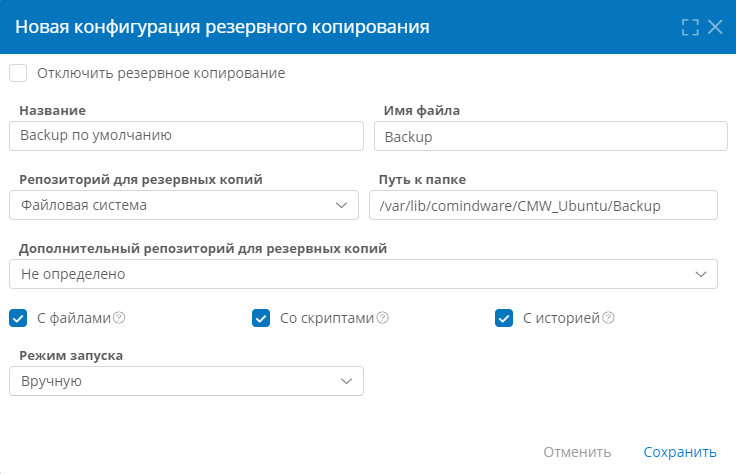
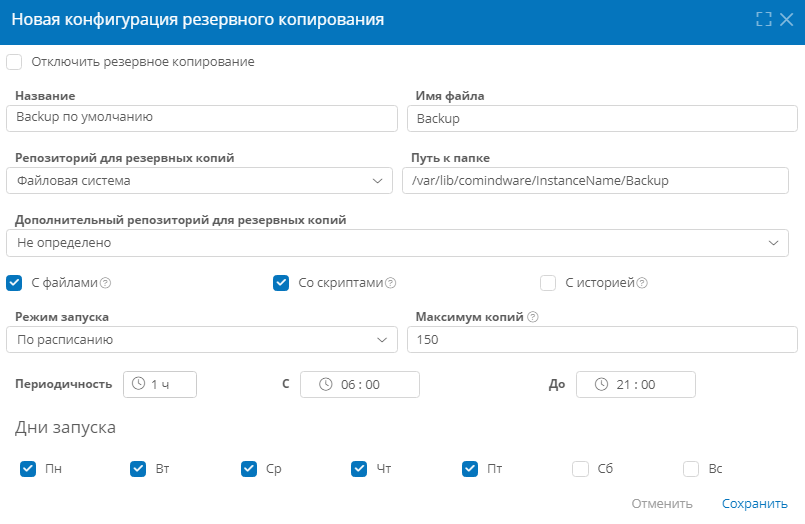
[#1703741] Reviewd backup.md and links

diff --git a/docs/ru/administration/infrastructure/backup.md b/docs/ru/administration/infrastructure/backup.md
@@ -1,20 +1,21 @@
 ---
+title: Резервное копирование
 kbId: 2190 
 ---
 
-# Резервное копирование
+# Резервное копирование. Настройка и запуск, просмотр журнала сеансов {: #backup}
 
 ## Введение
 
-В **{{ productName }}** предусмотрена функция резервного копирования полного образа экземпляра ПО в формате файла с расширением `.CBBZ`.
+В **{{ productName }}** предусмотрена функция резервного копирования полного образа экземпляра ПО в формате файла с расширением `.CDBBZ`.
 
 При резервном копировании сохраняются все данные всех приложений и все системные настройки экземпляра ПО **{{ productName }}**.
 
-Резервные копии могут храниться как в файловой системе сервера **{{ productName }}**, так и в [хранилище S3](s3_connection.md).
+Резервные копии могут храниться как в файловой системе сервера **{{ productName }}**, так и в [хранилище S3][s3_connection].
 
 Резервное копирование можно настраивать и запускать с помощью веб-интерфейса **{{ productName }}**.
 
-Восстановление данных осуществляется на стороне сервера **{{ productName }}**. См. _«[Восстановление базы данных из файла резервной копии в формате .CDBBZ]({{ kbArticleURLPrefix }}2500)»_.
+Восстановление данных осуществляется на стороне сервера **{{ productName }}**. См. _«[Восстановление базы данных из файла резервной копии в формате .CDBBZ][backup_restore_cdbbz]»_.
 
 ## Рекомендации по резервному копированию
 
@@ -25,128 +26,112 @@ kbId: 2190
 - Раз в сутки — полное резервное копирование базы данных, скриптов, файлов и истории операций встроенными средствами ПО, срок хранения резервных копий: не менее двух недель.
 - Раз в неделю — резервное копирование всего образа развёрнутого ПО средствами виртуализации, срок хранения резервных копий: не менее трех месяцев.
 
-Инструкции по резервному копированию и восстановлению данных встроенными и внешними средствами см. в разделе _«[Резервное копирование и восстановление]({{ kbArticleURLPrefix }}2579)»_.
+Инструкции по резервному копированию и восстановлению данных встроенными и внешними средствами см. в разделе _«[Резервное копирование и восстановление][backup_and_restore]»_.
 
 ## Просмотр списка и настройка конфигураций резервного копирования
 
-1. В разделе [«**Администрирование**» — «**Инфраструктура**»][администрирование] выберите пункт «**Резервное копирование**» <i class=" fal  fa-coins "></i>. 
+1. В разделе [«**Администрирование**» — «**Инфраструктура**»][администрирование] выберите пункт «**Резервное копирование**» <i class="fa-light  fa-coins"></i>.
 2. Отобразится список конфигураций резервного копирования со следующими сведениями:  
-    - **Флажки выбора** — устанавливайте флажки в этом столбце, чтобы выбрать одну или несколько конфигураций резервного копирования.
-    - **ID** — уникальный идентификатор конфигурации резервного копирования.
-    - **Название** — наименование конфигурации резервного копирования.
-    - **Путь к файлу** — папка на сервере, в которой будут сохраняться резервные копии.
-    - **Имя файла** — имя файла резервных копий. В процессе резервного копирования к этому имени будут добавляться метка времени в формате `ГГГГММДДЧЧММ` и расширение `CDBBZ`, например для имени файла Backup: `Backup.202202161625.cdbbz`.
-    - **С файлами** — если в резервную копию включаются загруженные файлы, в этом столбце отображается флажок ![синий флажок](blue_checkmark.png) .
-    - **Со скриптами** — если в резервную копию включаются скрипты, в этом столбце отображается флажок ![синий флажок](blue_checkmark.png) .
-    - **Отключено** — если резервное копирование отключено, в этом столбце отображается флажок ![синий флажок](blue_checkmark.png) .
 3. Нажмите кнопку «**Создать**» или дважды нажмите строку конфигурации в списке.
-4. Отобразится окно свойств конфигурации резервного копирования.
-5. Настройте и сохраните [конфигурацию резервного копирования](#свойства-конфигурации-резервного-копирования).
+4. Настройте и сохраните конфигурацию резервного копирования:
 
-### Свойства конфигурации резервного копирования
+    - **Отключить резервное копирование** — установите этот флажок, чтобы прекратить резервное копирование с использованием данной конфигурации.
+    - **Название** — введите наглядное наименование конфигурации резервного копирования.
+    - **Имя файла** — введите имя файла резервных копий. В процессе резервного копирования к этому имени будут добавляться метка времени в формате `ГГГГММДДЧЧММ` и расширение `CDBBZ`, например для имени файла Backup: `Backup.202202161625.cdbbz`.
+    - **Репозиторий для резервных копий** — выберите хранилище для резервных копий:
+        - **Не определено** — не использовать репозиторий для хранения резервных копий.
+        - **Файловая система** — сохранять резервные копии в файловой системе сервера **{{ productName }}**.
+            - **Путь к папке** — путь к директории на сервере, в которой будут сохраняться резервные копии, например `/var/lib/comindware/<instanceName>/Backups` (здесь `<instanceName>` — имя экземпляра ПО). Для этой директории предоставьте разрешения на полный доступ, чтобы система могла сохранять в неё резервные копии, например:  
+                **Astra Linux, Ubuntu, Rocky**  
 
-- **Отключить резервное копирование** — установите этот флажок, чтобы прекратить резервное копирование с использованием данной конфигурации.
-- **Название** — введите наглядное наименование конфигурации резервного копирования.
-- **Имя файла** — введите имя файла резервных копий. В процессе резервного копирования к этому имени будут добавляться метка времени в формате `ГГГГММДДЧЧММ` и расширение `CDBBZ`, например для имени файла Backup: `Backup.202202161625.cdbbz`.
-- **Репозиторий для резервных копий** — выберите хранилище для резервных копий:
-    - **Не определено** — не использовать репозиторий для хранения резервных копий.
-    - **Файловая система** — сохранять резервные копии в файловой системе сервера **{{ productName }}**.
-        - **Путь к папке** — путь к директории на сервере, в которой будут сохраняться резервные копии, например `/var/lib/comindware/<instanceName>/Backups` (здесь `<instanceName>` — имя экземпляра ПО). Для этой директории предоставьте разрешения на полный доступ, чтобы система могла сохранять в неё резервные копии, например:  
-            **Astra Linux, Ubuntu, Rocky**  
-            
-            ``` shell
-            chmod 777 /var/lib/comindware/<instanceName>chown -R www-data:www-data /var/lib/comindware/<instanceName>
-            chown -R www-data:www-data /var/lib/comindware/<instanceName>
-            ```
-            
-            **Альт Сервер**  
-            
-            ``` shell
-            chmod 777 /var/lib/comindware/<instanceName>chown -R _nginx:_nginx /var/lib/comindware/<instanceName>
-            chown -R _nginx:_nginx /var/lib/comindware/<instanceName>
-            ```
-            
-    - **Хранилище S3** — сохранять резервные копии во [внешнем сервисе S3](s3_connection.md).
-        - **Имя корзины** — введите имя контейнера в хранилище S3, к котором будут сохраняться резервные копии.
-            
-            !!! warning "Внимание!"
+                ``` shell
+                chmod 777 /var/lib/comindware/<instanceName>chown -R www-data:www-data /var/lib/comindware/<instanceName>
+                chown -R www-data:www-data /var/lib/comindware/<instanceName>
+                ```
 
-                Для резервного копирования в основной и дополнительный репозитории будет использоваться только подключение к S3, заданное в файле конфигурации экземпляра ПО (`/usr/share/comindware/configs/instance/<instanceName>.yml`) с помощью директивы `s3Connection.default`
-            
-- **Дополнительный репозиторий для резервных копий** — выберите хранилище, в которое будут сохраняться дубликаты резервных копий.
-- **С файлами** — установите этот флажок, чтобы включить в состав резервной копии загруженные файлы.
-- **Со скриптами** — установите этот флажок, чтобы включить в состав резервной копии скрипты.
-- **С историей** — установите этот флажок, чтобы включить в состав резервной копии данные Elasticsearch.
-    
-    !!! warning "Внимание!"
-    
-        Для корректного резервного копирования данных истории необходимо настроить конфигурацию службы Elasticsearch и экземпляра ПО **{{ productName }}**:
-        
-        - В файле конфигурации Elasticsearch (`/etc/elasticsearch/elasticsearch.yml`) должен быть указан путь к репозиторию резервных копий, например:  
-            **Для репозитория на локальном диске**
-            
-            ``` shell
-            # Директория репозитория должна быть доступна экземпляру ПО
-            # {{ productName }}
-            # При необходимости установите доступ с помощью команды chmod 777
-            path.repo: /var/www/backups/elasticsearch
-            ```
-            
-            **Для репозитория в хранилище S3**  
-            
-            ``` shell
-            s3.client.default.endpoint: localhost:9000
-            s3.client.default.protocol: http
-            s3.client.default.path_style_access: true
-            ```
-            
-        - В файле конфигурации экземпляра ПО (`/usr/share/comindware/configs/instance/<instanceName>.yml`) необходимо указать тип репозитория резервных копий Elasticsearch (`LocalDisk` или `S3`) и путь к репозиторию, например:  
-            **Для репозитория на локальном диске**  
-            
-            ``` shell
-            backup.elasticRepository.type: LocalDisk
-            # В данном примере Elasticsearch и {{ productName }} Platform 
-            # работают на одной машине. 
-            # В противном случае следует примонтировать папку репозитория Elasticsearch 
-            # на машине с {{ productName }} и указать её в директиве ниже
-            backup.elasticRepository.localDisk.path: /var/www/backups/elasticsearch
-            ```
-            
-            **Для репозитория в хранилище S3**  
-            
-            ``` shell
-            # Конфигурация подключения к хранилищу S3, используемого по умолчанию 
-            s3Connection.default.endpointURL: http://localhost:9000 
-            s3Connection.default.accessKey: xxxxx 
-            s3Connection.default.secretKey: xxxxx 
-            s3Connection.default.pathStyleAccess: true 
-            s3Connection.default.description: Подключение к S3 по умолчанию 
+                **Альт Сервер**  
 
-            # Конфигурация репозитория резервных копий Elasticsearch в хранилище S3 
-            backup.elasticRepository.type: S3 
-            # Имя корзины в хранилище S3 для хранения резервных копий данных Elasticsearch
-            backup.elasticRepository.s3.bucket: <instanceName>-backups
-            # Имя подключения к хранилищу S3, используемому по умолчанию на стороне {{ productName }}  
-            backup.elasticRepository.s3.platformConnection: default
-            # Имя подключения к хранилищу S3, используемому по умолчанию на стороне Elasticsearch  
-            backup.elasticRepository.s3.elasticConnection: default 
-            ```
+                ``` shell
+                chmod 777 /var/lib/comindware/<instanceName>chown -R _nginx:_nginx /var/lib/comindware/<instanceName>
+                chown -R _nginx:_nginx /var/lib/comindware/<instanceName>
+                ```
 
-- **Режим запуска**
-    - **Вручную** — для запуска резервного копирования потребуется нажимать кнопку «**Запустить копирование**» в [списке конфигураций резервного копирования](#запуск-резервного-копирования).
-    - **По расписанию** — резервное копирование будет выполняться по настроенному расписанию. Если выбрать этот режим, отобразятся свойства [расписания резервного копирования](#расписание-резервного-копирования).
+        - **Хранилище S3** — сохранять резервные копии во [внешнем сервисе S3][s3_connection].
+            - **Имя корзины** — введите имя контейнера в хранилище S3, к котором будут сохраняться резервные копии.
 
-*![Настройка свойств резервного копирования](backup_create_config.png)*
-#### Расписание резервного копирования
+                !!! warning "Внимание!"
 
-- **Максимум копий** — максимальное количество резервных копий, которые будут храниться в папке на сервере. Укажите значение 0, чтобы хранить все резервные копии.
-- **Периодичность** — частота, с которой будет выполняться копирование.
-- **Интервал**
-    - **С** — время суток, начиная с которого может выполняться копирование в указанные дни недели.
-    - **До** — время суток, вплоть до которого может выполняться копирование в указанные дни недели.
-- **Дни запуска** — дни недели, по которым будет выполняться копирование с указанной периодичностью.
+                    Для резервного копирования в основной и дополнительный репозитории будет использоваться только подключение к S3, заданное в файле конфигурации экземпляра ПО (`/usr/share/comindware/configs/instance/<instanceName>.yml`) с помощью директивы `s3Connection.default`
 
-*![Свойства расписания резервного копирования](backup_schedule_properties.png)*
+    - **Дополнительный репозиторий для резервных копий** — выберите хранилище, в которое будут сохраняться дубликаты резервных копий.
+    - **С файлами** — установите этот флажок, чтобы включить в состав резервной копии загруженные файлы.
+    - **Со скриптами** — установите этот флажок, чтобы включить в состав резервной копии скрипты.
+    - **С историей** — установите этот флажок, чтобы включить в состав резервной копии данные Elasticsearch. См. _«[Настройка резервного копирования данных Elasticsearch](#настройка-резервного-копирования-данных-elasticsearch)»_.
+    - **Режим запуска**
+        - **Вручную** — для запуска резервного копирования потребуется нажимать кнопку «**Запустить копирование**» в [списке конфигураций резервного копирования](#запуск-резервного-копирования).
+        - **По расписанию** — резервное копирование будет выполняться по расписанию со следующими параметрами:
+            - **Максимум копий** — максимальное количество резервных копий, которые будут храниться в папке на сервере. Укажите значение 0, чтобы хранить все резервные копии.
+            - **Периодичность** — частота, с которой будет выполняться копирование.
+            - **Интервал**
+                - **С** — время суток, начиная с которого может выполняться копирование в указанные дни недели.
+                - **До** — время суток, вплоть до которого может выполняться копирование в указанные дни недели.
+            - **Дни запуска** — дни недели, по которым будет выполняться копирование с указанной периодичностью.
+
+_![Настройка свойств резервного копирования](img/backup_create_config.png)_
+
+## Настройка резервного копирования данных Elasticsearch
+
+Для корректного резервного копирования данных истории необходимо настроить конфигурацию службы Elasticsearch и экземпляра ПО **{{ productName }}**:
+
+- В файле конфигурации Elasticsearch (`/etc/elasticsearch/elasticsearch.yml`) должен быть указан путь к репозиторию резервных копий, например:  
+    **Для репозитория на локальном диске**
+
+    ``` shell
+    # Директория репозитория должна быть доступна экземпляру ПО
+    # {{ productName }}
+    # При необходимости установите доступ с помощью команды chmod 777
+    path.repo: /var/www/backups/elasticsearch
+    ```
+
+    **Для репозитория в хранилище S3**  
+
+    ``` shell
+    s3.client.default.endpoint: localhost:9000
+    s3.client.default.protocol: http
+    s3.client.default.path_style_access: true
+    ```
+
+- В файле конфигурации экземпляра ПО (`/usr/share/comindware/configs/instance/<instanceName>.yml`) необходимо указать тип репозитория резервных копий Elasticsearch (`LocalDisk` или `S3`) и путь к репозиторию, например:  
+    **Для репозитория на локальном диске**  
+
+    ``` shell
+    backup.elasticRepository.type: LocalDisk
+    # В данном примере Elasticsearch и {{ productName }} Platform 
+    # работают на одной машине. 
+    # В противном случае следует примонтировать папку репозитория Elasticsearch 
+    # на машине с {{ productName }} и указать её в директиве ниже
+    backup.elasticRepository.localDisk.path: /var/www/backups/elasticsearch
+    ```
+
+    **Для репозитория в хранилище S3**  
+
+    ``` shell
+    # Конфигурация подключения к хранилищу S3, используемого по умолчанию 
+    s3Connection.default.endpointURL: http://localhost:9000 
+    s3Connection.default.accessKey: xxxxx 
+    s3Connection.default.secretKey: xxxxx 
+    s3Connection.default.pathStyleAccess: true 
+    s3Connection.default.description: Подключение к S3 по умолчанию 
+
+    # Конфигурация репозитория резервных копий Elasticsearch в хранилище S3 
+    backup.elasticRepository.type: S3 
+    # Имя корзины в хранилище S3 для хранения резервных копий данных Elasticsearch
+    backup.elasticRepository.s3.bucket: <instanceName>-backups
+    # Имя подключения к хранилищу S3, используемому по умолчанию на стороне {{ productName }}  
+    backup.elasticRepository.s3.platformConnection: default
+    # Имя подключения к хранилищу S3, используемому по умолчанию на стороне Elasticsearch  
+    backup.elasticRepository.s3.elasticConnection: default 
+    ```
 
 ## Запуск резервного копирования
 
@@ -155,15 +140,7 @@ kbId: 2190
 3. В фоновом режиме начнется процесс резервного копирования.
 4. Прогресс и результат резервного копирования можно просмотреть [в журнале резервного копирования](#просмотр-списка-сеансов-резервного-копирования).
 
-*![Запуск резервного копирования](backup_list.png)*
-
-## Удаление конфигурации резервного копирования
-
-1. С помощью флажков выбора выберите подлежащие удалению конфигурации резервного копирования в списке конфигураций.
-2. Нажмите кнопку «**Удалить**».
-3. Подтвердите удаление резервных копий.
-4. Конфигурация резервного копирования будет удалена из списка.
-5. Будут безвозвратно удалены сохранённые файлы резервных копий и соответствующие записи [в журнале резервного копирования](#просмотр-списка-сеансов-резервного-копирования).
+_![Запуск резервного копирования](backup_start.png)_
 
 ## Просмотр списка сеансов резервного копирования
 
@@ -171,7 +148,6 @@ kbId: 2190
 2. Отобразится список конфигураций резервного копирования.
 3. Выберите вкладку «**Журнал**».
 4. Отобразится список сеансов резервного копирования со следующими сведениями:
-    - **Флажки выбора** — устанавливайте флажки в этом столбце, чтобы выбрать один или несколько сеансов резервного копирования.
     - **ID** — уникальный идентификатор резервной копии.
     - **Конфигурация** — название конфигурации резервного копирования.
     - **Добавлено в очередь** — дата и время постановки резервной копии в очередь резервного копирования.
@@ -181,7 +157,15 @@ kbId: 2190
     - **Размер архива** — размер сохраненной резервной копии.
 5. Если отображаются не все ожидаемые сеансы, нажмите кнопку «**Обновить**», чтобы загрузить в список данные о текущих сеансах резервного копирования.
 
-*![Список сеансов резервного копирования](backup_log.png)*
+_![Список сеансов резервного копирования](backup_log.png)_
+
+## Удаление конфигурации резервного копирования
+
+1. С помощью флажков выбора выберите подлежащие удалению конфигурации резервного копирования в [списке конфигураций](#просмотр-списка-и-настройка-конфигураций-резервного-копирования).
+2. Нажмите кнопку «**Удалить**».
+3. Подтвердите удаление резервных копий.
+4. Конфигурация резервного копирования будет удалена из списка.
+5. Будут безвозвратно удалены сохранённые файлы резервных копий и соответствующие записи [в журнале резервного копирования](#просмотр-списка-сеансов-резервного-копирования).
 
 ## Удаление сеанса резервного копирования и резервной копии
 
@@ -193,6 +177,12 @@ kbId: 2190
 
 --8<-- "related_topics_heading.md"
 
-**[Хранилище S3. Настройка экземпляра ПО и подключения](s3_connection.md)**
+**[Хранилище S3. Настройка экземпляра ПО и подключения][s3_connection]**
 
-**[Восстановление базы данных из файла резервной копии в формате .CDBBZ]({{ kbArticleURLPrefix }}2500)**
+**[Восстановление базы данных из файла резервной копии в формате .CDBBZ][backup_restore_cdbbz]**
+
+**[Резервное копирование и восстановление][backup_and_restore]**
+
+{%
+include-markdown ".snippets/hyperlinks_mkdocs_to_kb_map.md"
+%}

diff --git a/docs/ru/architect/architect_desktop.md b/docs/ru/architect/architect_desktop.md
@@ -27,7 +27,7 @@ hide:
         - **[Дизайн страниц входа и регистрации][дизайн-страниц-входа-и-регистрации]**
         - **[Рабочее пространство][navigation_sections_setup]**
     - **Расширенная настройка**
-        - **[Резервное копирование][резервное-копирование]**
+        - **[Резервное копирование][backup]**
         - **[Общесистемные настройки](global_configuration.md)**
     - **Совместная работа**
         - **[Регистрация и вход](registration_and_login.md)**

diff --git a/docs/ru/.snippets/hyperlinks_mkdocs_to_kb_map.md b/docs/ru/.snippets/hyperlinks_mkdocs_to_kb_map.md
@@ -4,6 +4,10 @@
 
 [attribute_hyperlink_field]: {{ kbArticleURLPrefix }}2531#formset12
 
+[backup_and_restore]: {{ kbArticleURLPrefix }}2579
+
+[backup_restore_cdbbz]: {{ kbArticleURLPrefix }}2500
+
 [chevron_field]: {{ kbArticleURLPrefix }}2531#mcetoc_1hlsmo2ru1
 
 [attribute_document_clone_scenario]: {{ kbArticleURLPrefix }}2608
@@ -69,6 +73,8 @@
 [attributes_system]: {{ kbArticleURLPrefix }}2242
 
 [auto_numerating_records]: {{ kbArticleURLPrefix }}2607
+
+[backup]: {{ kbArticleURLPrefix }}2190
 
 [buttons]: {{ kbArticleURLPrefix }}2276
 
